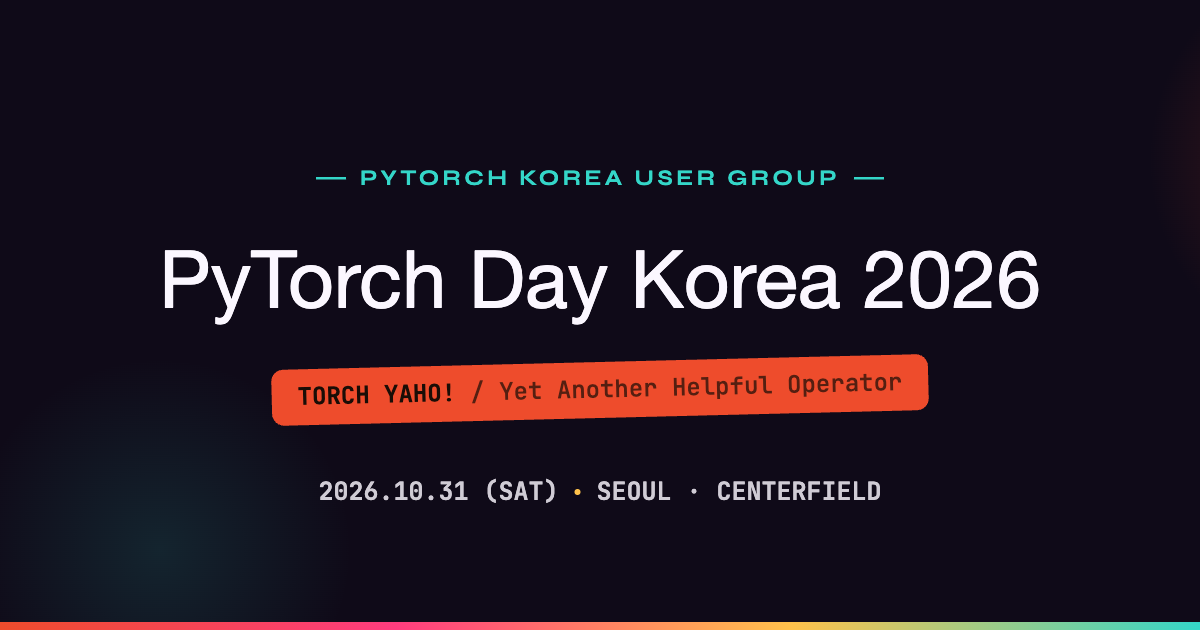
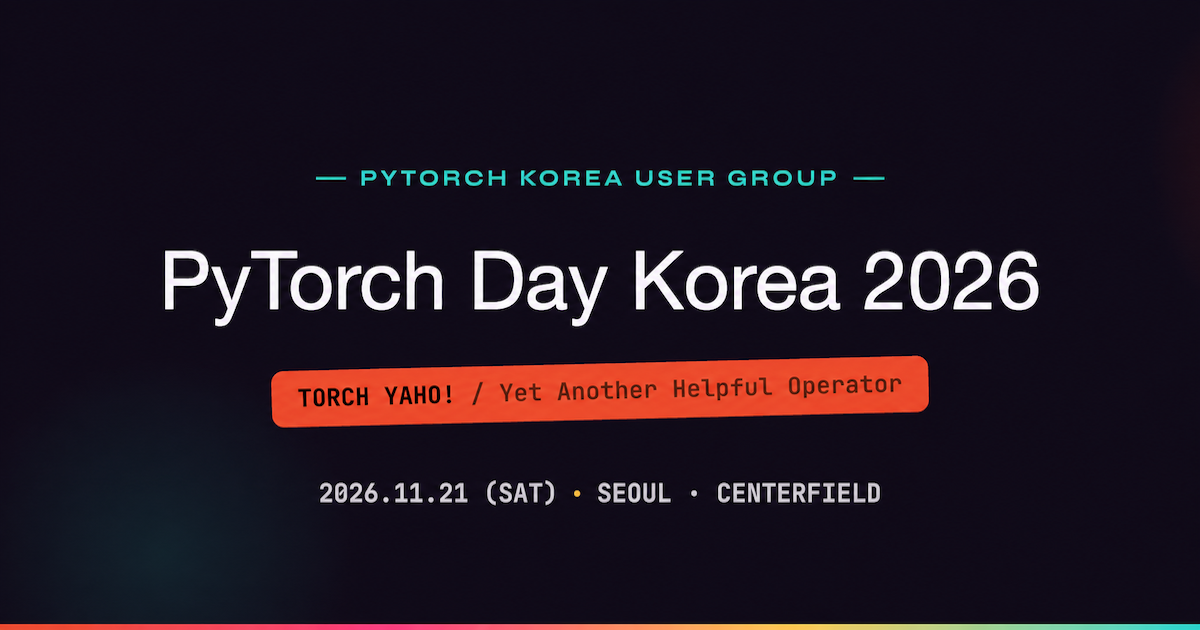
chore: move event date from Oct 31 to Nov 21, 2026
index.html (7 spots):
- meta description, og:description, twitter:description
- hero banner alt text (desktop + mobile)
- venue.dateValue for both ko and en locales

Both dates fall on a Saturday, so the weekday labels are unchanged.

Assets re-exported with the new date:
- torch_yaho_2.png, torch_yaho_2_square2.png (hero banners)
- og-image.png (social share card)
- PyTorchKR-2026-Sponsorship.pdf

The CFP deadline (Aug 22) is unrelated to this change and stays as is.

diff --git a/index.html b/index.html
@@ -5,7 +5,7 @@
 <meta name="viewport" content="width=device-width, initial-scale=1">
 
 <title>PyTorch Day Korea 2026</title>
-<meta name="description" content="파이토치 한국 사용자 모임이 처음 개최하는 대규모 오프라인 컨퍼런스. 2026.10.31 (토) · 서울 센터필드">
+<meta name="description" content="파이토치 한국 사용자 모임이 처음 개최하는 대규모 오프라인 컨퍼런스. 2026.11.21 (토) · 서울 센터필드">
 
 <!-- 파비콘 -->
 <link rel="icon" type="image/png" href="./favicon.png">
@@ -15,7 +15,7 @@
 <meta property="og:type" content="website">
 <meta property="og:url" content="https://pytorchday.kr/">
 <meta property="og:title" content="PyTorch Day Korea 2026">
-<meta property="og:description" content="Torch YAHO! 2026.10.31 (토) · 서울 센터필드">
+<meta property="og:description" content="Torch YAHO! 2026.11.21 (토) · 서울 센터필드">
 <meta property="og:image" content="https://pytorchday.kr/og-image.png">
 <meta property="og:image:width" content="1200">
 <meta property="og:image:height" content="630">
@@ -24,7 +24,7 @@
 <!-- 트위터/X -->
 <meta name="twitter:card" content="summary_large_image">
 <meta name="twitter:title" content="PyTorch Day Korea 2026">
-<meta name="twitter:description" content="Torch YAHO! 2026.10.31 (토) · 서울 센터필드">
+<meta name="twitter:description" content="Torch YAHO! 2026.11.21 (토) · 서울 센터필드">
 <meta name="twitter:image" content="https://pytorchday.kr/og-image.png">
 
 <script src="./support.js"></script>
@@ -144,10 +144,10 @@
   <section id="top" style="position:relative">
     <div style="position:relative;width:100%;overflow:hidden">
       <sc-if value="{{ isWide }}" hint-placeholder-val="{{ true }}">
-        <img src="torch_yaho_2.png" alt="PyTorch Day Korea 2026 — Torch YAHO! Yet Another Helpful Operator. 2026.10.31 (Sat) Seoul, Korea" style="width:100%;height:auto;max-height:88vh;object-fit:contain;display:block;max-width:none" />
+        <img src="torch_yaho_2.png" alt="PyTorch Day Korea 2026 — Torch YAHO! Yet Another Helpful Operator. 2026.11.21 (Sat) Seoul, Korea" style="width:100%;height:auto;max-height:88vh;object-fit:contain;display:block;max-width:none" />
       </sc-if>
       <sc-if value="{{ isNarrow }}" hint-placeholder-val="{{ false }}">
-        <img src="torch_yaho_2_square2.png" alt="PyTorch Day Korea 2026 — Torch YAHO! Yet Another Helpful Operator. 2026.10.31 (Sat) Seoul, Korea" style="width:100%;height:auto;display:block" />
+        <img src="torch_yaho_2_square2.png" alt="PyTorch Day Korea 2026 — Torch YAHO! Yet Another Helpful Operator. 2026.11.21 (Sat) Seoul, Korea" style="width:100%;height:auto;display:block" />
       </sc-if>
       <div style="position:absolute;left:0;right:0;bottom:0;height:34%;background:linear-gradient(to top, var(--bg), transparent);pointer-events:none"></div>
     </div>
@@ -378,7 +378,7 @@ const TRANSLATIONS = {
       btn: '후원 문의하기', inquiryLabel: '후원 문의 · '
     },
     venue: {
-      dateValue: '2026년 10월 31일 (토)',
+      dateValue: '2026년 11월 21일 (토)',
       venueValue: '센터필드 이스트 18층 · AWS 코리아, 서울',
       mapTitle: '센터필드 이스트',
       mapAddress: '서울 강남구 테헤란로 231 · 이스트 18층 AWS 코리아'
@@ -414,7 +414,7 @@ const TRANSLATIONS = {
       btn: 'Sponsor Inquiries', inquiryLabel: 'Sponsor inquiries \u00b7 '
     },
     venue: {
-      dateValue: 'Saturday, Oct 31, 2026',
+      dateValue: 'Saturday, Nov 21, 2026',
       venueValue: 'Centerfield East 18F \u00b7 AWS Korea, Seoul',
       mapTitle: 'Centerfield East',
       mapAddress: '231 Teheran-ro, Gangnam-gu, Seoul \u00b7 AWS Korea, East Tower 18F'
